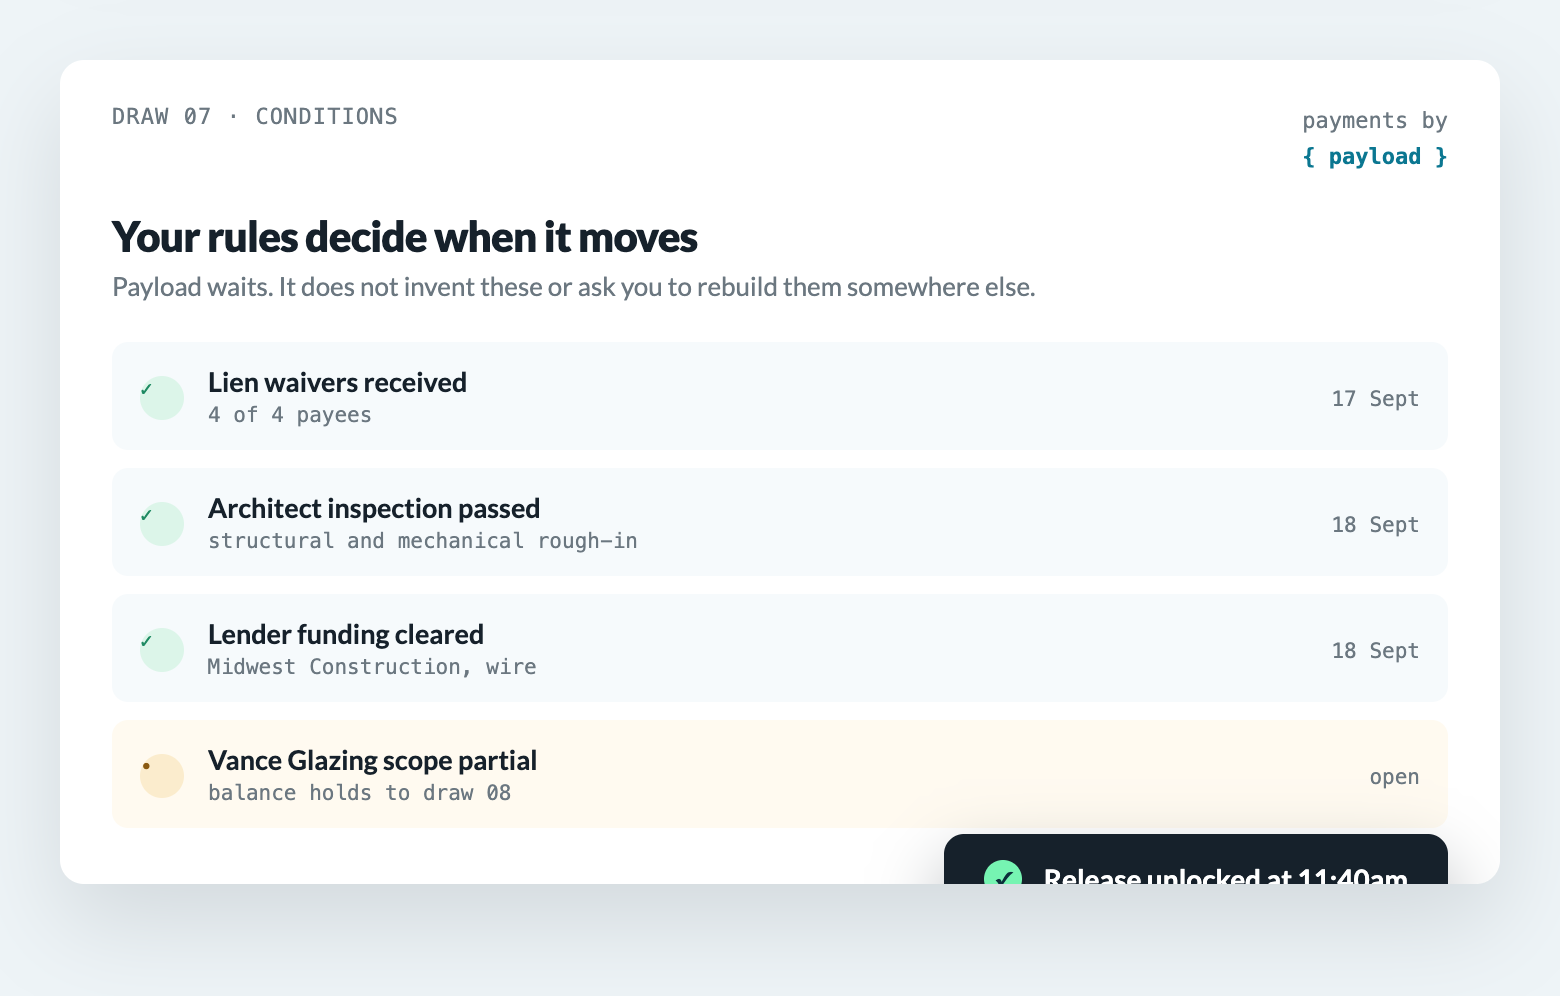
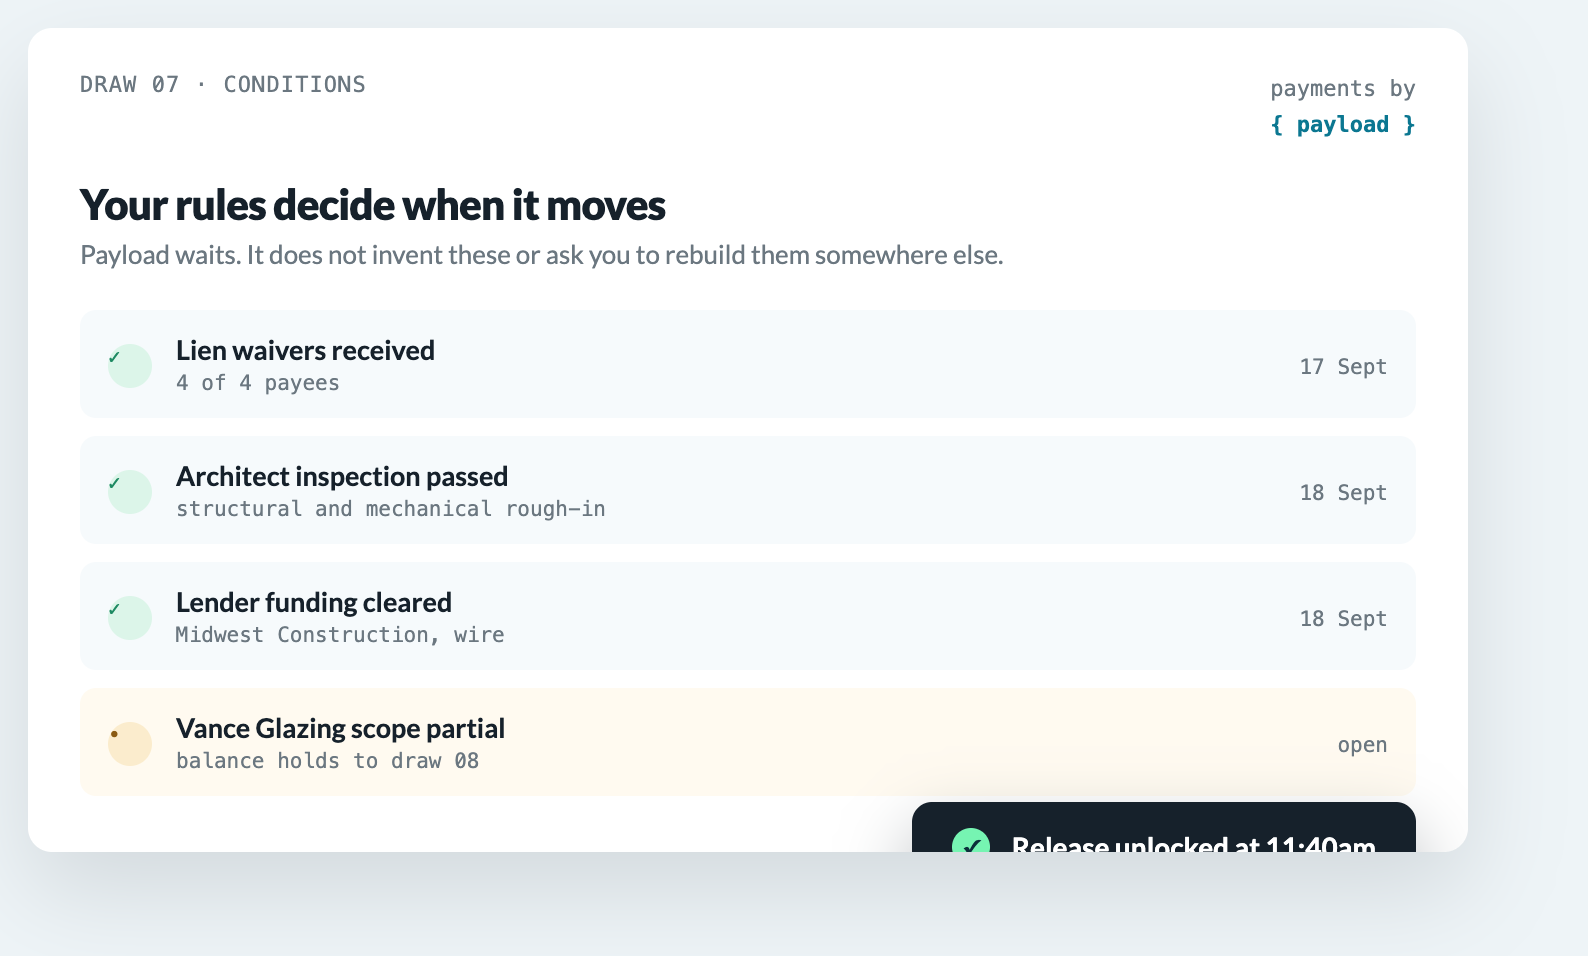
construction: dark/light rhythm, mint headline accents, floating callouts, restored use cases and compliance, fixed clipped mockups

Changed region(s): [[0.0, 0.091, 0.9538, 0.91], [0.0615, 0.0607, 0.2462, 0.1213]]

diff --git a/construction.html b/construction.html
@@ -51,10 +51,58 @@ figure{margin:0}
 .pill.solid:hover{filter:brightness(1.04)}
 .pill.lg{padding:14px 28px;font-size:var(--t-3);font-weight:900}
 
+
+/* ---- rhythm: Payload alternates dark and light nine times. All-white has no energy. ---- */
+.dark{background:#16212b;color:#fff}
+.dark h2,.dark h3{color:#fff}
+.dark .sub,.dark p{color:#b3c2cb}
+.dark .eyebrow{color:var(--mint)}
+.dark .arrows li{color:#c6d3da;border-color:rgba(255,255,255,.12)}
+.dark .arrows{border-top-color:rgba(255,255,255,.14)}
+.dark .arrows li::before{color:var(--mint)}
+.dark .shotwrap{background:#212c35}
+em{font-style:normal;color:var(--teal)}
+.dark em{color:var(--mint)}
+
+.crumb{border-bottom:1px solid var(--line);background:var(--tint)}
+.crumb .w{padding-block:11px;font-size:var(--t-2);color:var(--ink-3)}
+.crumb a{color:var(--teal);text-decoration:none}
+.crumb span{color:var(--ink-3);margin-inline:6px}
+
+/* six use cases, their hexagon grid rebuilt as cards */
+.uses{display:grid;grid-template-columns:repeat(3,1fr);gap:var(--s-5);margin-top:var(--s-7)}
+.u{border:1px solid var(--line);border-radius:14px;padding:var(--s-5);background:var(--paper)}
+.u .k{font:var(--t-1)/1 var(--mono);letter-spacing:.1em;text-transform:uppercase;
+  color:var(--teal);display:block;margin-bottom:var(--s-3)}
+.u h3{font-size:var(--t-4);font-weight:900;margin:0 0 var(--s-2);letter-spacing:-.015em;line-height:1.25}
+.u p{margin:0;font-size:var(--t-2);color:var(--ink-3);line-height:1.55}
+
+/* rails */
+.rails{display:flex;flex-wrap:wrap;gap:8px;margin:var(--s-6) 0 0;padding:0;list-style:none;justify-content:center}
+.rails li{font:var(--t-2) var(--mono);background:var(--paper);border:1px solid var(--line);
+  border-radius:100px;padding:7px 15px;color:var(--ink-2)}
+.dark .rails li{background:#23303a;border-color:#38474f;color:#cfdce3}
+
+/* full width product shot with floating callouts, their signature presentation */
+.showcase{position:relative;max-width:1000px;margin:var(--s-8) auto 0}
+.showcase .shotwrap{padding:var(--s-6)}
+.call{position:absolute;background:var(--paper);border-radius:12px;padding:14px 18px;
+  box-shadow:0 14px 36px rgba(22,33,43,.18);max-width:250px;z-index:2}
+.call b{display:block;font-size:var(--t-2);font-weight:900;color:var(--ink);line-height:1.3}
+.call span{display:block;font:var(--t-1) var(--mono);color:var(--teal);margin-top:4px}
+.c1{top:6%;left:-34px} .c2{top:38%;right:-34px} .c3{bottom:12%;left:-24px}
+@media (max-width:1180px){ .c1,.c2,.c3{position:static;max-width:none;box-shadow:none;
+  border:1px solid var(--line);margin-top:var(--s-3)} 
+  .showcase .calls{display:grid;grid-template-columns:repeat(3,1fr);gap:var(--s-3)} }
+@media (max-width:760px){ .showcase .calls{grid-template-columns:1fr} }
+
+/* give product shots real width. 0.23 scale was illegible. */
+@media (max-width:900px){ .row{grid-template-columns:1fr} }
+@media (max-width:900px){ .uses{grid-template-columns:1fr} }
 /* rhythm */
 section{padding-block:var(--s-9)}
-.center{text-align:center;max-width:22ch;margin:0 auto var(--s-7)}
-.center.wide{max-width:36ch}
+.center{text-align:center;max-width:620px;margin:0 auto var(--s-7)}
+.center.wide{max-width:780px}
 h1{font-size:clamp(38px,5.2vw,var(--t-8));font-weight:900;line-height:1.08;
   letter-spacing:-.035em;margin:0 0 var(--s-5)}
 h2{font-size:clamp(26px,3.4vw,var(--t-6));font-weight:900;line-height:1.18;
@@ -83,7 +131,7 @@ h2{font-size:clamp(26px,3.4vw,var(--t-6));font-weight:900;line-height:1.18;
 .arrows li::before{content:"\2192";position:absolute;left:0;top:var(--s-3);color:var(--teal);font-weight:700}
 
 /* stats */
-.stats{background:var(--tint-2)}
+.stats:not(.dark){background:var(--tint-2)}
 .stats .row3{display:grid;grid-template-columns:repeat(3,1fr);gap:var(--s-8);text-align:center;margin:0}
 .stats dt{font-size:clamp(34px,4.6vw,var(--t-8));font-weight:900;letter-spacing:-.04em;line-height:1}
 .stats dd{margin:var(--s-3) 0 0;font-size:var(--t-2);color:var(--ink-3);line-height:1.5}
@@ -142,6 +190,70 @@ footer a{font-size:var(--t-2);color:var(--teal);text-decoration:none;font-weight
   .cmp td.diy::before{content:"Build it: ";font-weight:700;color:var(--ink-3)}
   .cmp td.bank::before{content:"Bank portal: ";font-weight:700;color:var(--ink-3)}
 }
+
+/* product shots were rendering at 0.23 scale. give the image column real width. */
+.row{grid-template-columns:minmax(0,0.76fr) minmax(0,1.24fr);gap:var(--s-7)}
+.row .shotwrap{padding:var(--s-5) var(--s-5) 0}
+.row .shotwrap.pad{padding:var(--s-5)}
+@media (max-width:900px){.row{grid-template-columns:1fr}}
+
+.dark .u{background:#212c35;border-color:#34424b}
+.dark .u p{color:#b3c2cb}
+.dark .u .k{color:var(--mint)}
+.dark .row3 dt,.dark .row3 dd{color:#fff}
+.dark .row3 dd{color:#b3c2cb}
+.foot-note{max-width:62ch;margin:var(--s-6) auto 0;text-align:center;
+  font-size:var(--t-1);color:var(--ink-3);line-height:1.6}
+.dark .foot-note{color:#93a6b1}
+
+/* the toast sits at the card's bottom edge. zero bottom padding was clipping it. */
+.shotwrap{padding-bottom:var(--s-6)}
+.row .shotwrap,.row .shotwrap.pad{padding:var(--s-5)}
+.showcase .shotwrap{padding:var(--s-6)}
+/* c3 was sitting on top of a ledger row */
+/* callouts were landing on the mockup's own column headers.
+   widen only this section's container so they get real clearance. */
+.ledgersec .w{max-width:1320px}
+.showcase{max-width:880px}
+.call{max-width:236px;padding:13px 16px}
+.c1{top:14%;left:-196px}
+.c2{top:47%;right:-196px}
+.c3{bottom:10%;left:-176px}
+@media (max-width:1320px){
+  .ledgersec .w{max-width:1120px}
+  .call{position:static;max-width:none;box-shadow:none;border:1px solid #34424b;background:#212c35}
+  .call b{color:#fff} .showcase .calls{display:grid;grid-template-columns:repeat(3,1fr);gap:var(--s-3);margin-top:var(--s-5)}
+}
+@media (max-width:760px){.showcase .calls{grid-template-columns:1fr}}
+/* short text column next to a tall image should sit at the top, not float mid */
+.row{align-items:start}
+.row .txt{padding-top:var(--s-4)}
+
+/* Payload opens dark. A white hero reads lighter than the rest of the site. */
+.hero.dark{background:#16212b;padding-bottom:var(--s-9)}
+.hero.dark p.lead{color:#b3c2cb}
+.hero.dark .shotwrap{background:#212c35;box-shadow:0 30px 70px rgba(0,0,0,.38)}
+.nav{background:#16212b;border-bottom-color:#2a3a45}
+.nav .logo{color:#fff}
+.nav .pill{background:#23303a;border:1px solid #3a4a55;color:#cfdce3}
+.crumb{background:#16212b;border-bottom-color:#2a3a45}
+.crumb .w{color:#93a6b1}
+.crumb a{color:var(--mint)}
+/* the outline CTA needs to survive on navy */
+.hero.dark .pill.lg:not(.solid){background:transparent;border:1px solid #46565f;color:#dbe6ec}
+.nav .logo b{color:var(--mint)}
+.crumb span{color:#8598a3}
+
+/* Payload closes dark. A pale footer lets the page trail off. */
+footer{background:#16212b;border-top-color:#2a3a45}
+footer p{color:#93a6b1}
+footer a{color:var(--mint)}
+/* the phone was a small object inside a large empty frame */
+.phoneshot{max-width:520px;margin-inline:auto;padding:var(--s-4)}
+/* a short text column beside a tall phone left a hole underneath it */
+.row.tallimg{align-items:center}
+.row.tallimg .txt{padding-top:0}
+.phoneshot img{display:block;width:100%;height:auto}
 </style>
 </head>
 <body>
@@ -156,25 +268,36 @@ footer a{font-size:var(--t-2);color:var(--teal);text-decoration:none;font-weight
   <a class="pill" href="demo.html">Talk to an engineer</a>
 </div></div>
 
+<div class="crumb"><div class="w"><a href="index.html">Solutions</a><span>&raquo;</span>Construction</div></div>
+
 <main>
 
-<section class="hero"><div class="w">
+<section class="hero dark"><div class="w">
   <p class="eyebrow">For construction management platforms</p>
-  <h1>Your platform already runs the job.<br>The money should not leave to get paid.</h1>
+  <h1>Your platform already runs the job.<br><em>The money should not leave to get paid.</em></h1>
   <p class="lead">Draws, retainage, lien waivers and subcontractor payouts, settled inside the product that already holds the project. Your approval rules decide when it moves.</p>
   <div class="btns">
     <a class="pill solid lg" href="demo.html">Map your flows with an engineer</a>
     <a class="pill lg" href="revenue.html">See what it earns first</a>
   </div>
   <div class="shotwrap">
-    <figure class="shot"><img src="img/m-draw.png" alt="A draw release inside a construction platform: four subcontractor payees, retainage deducted, released in eleven seconds" width="1560" height="1160" loading="lazy"></figure>
+    <figure class="shot"><img src="img/m-draw.png" alt="A draw release inside a construction platform: four subcontractor payees, retainage deducted, released in eleven seconds" width="1588" height="1120" loading="lazy"></figure>
   </div>
 </div></section>
 
 <section><div class="w">
   <div class="center wide">
-    <h2>Everything the payment needs, your platform already knows</h2>
-    <p class="sub">And it currently sends all of it somewhere that knows none of it.</p>
+    <h2>Everything the payment needs, <em>your platform already knows</em></h2>
+    <p class="sub">And it currently sends all of it somewhere that knows none&nbsp;of&nbsp;it.</p>
+  </div>
+
+  <div class="uses">
+    <div class="u"><span class="k">inbound</span><h3>Progress payments and draws</h3><p>Requested against the line items your platform already tracks, with the job attached.</p></div>
+    <div class="u"><span class="k">inbound</span><h3>Owner and lender funding</h3><p>Released on inspection or milestone, by wire, RTP or ACH depending on who is sending it.</p></div>
+    <div class="u"><span class="k">outbound</span><h3>Subcontractor payouts</h3><p>Same day where it matters, conditional on the lien waiver being on file.</p></div>
+    <div class="u"><span class="k">outbound</span><h3>Supplier and vendor payments</h3><p>Any person or business, against the PO and the delivery your product already recorded.</p></div>
+    <div class="u"><span class="k">held</span><h3>Retainage</h3><p>Withheld on a schedule, released on conditions, in the same ledger as everything else.</p></div>
+    <div class="u"><span class="k">both</span><h3>Change orders</h3><p>A different amount against the same contract. Changing what is owed should not change how it moves.</p></div>
   </div>
 
   <div class="row">
@@ -188,24 +311,32 @@ footer a{font-size:var(--t-2);color:var(--teal);text-decoration:none;font-weight
         <li>A partial scope holds its balance to the next draw without holding the rest</li>
       </ul>
     </div>
-    <figure class="shotwrap pad"><img src="img/m-conditions.png" alt="A conditions panel showing lien waivers, inspection and lender funding cleared, with one partial scope held back" width="1560" height="996" loading="lazy"></figure>
+    <figure class="shotwrap pad"><img src="img/m-conditions.png" alt="A conditions panel showing lien waivers, inspection and lender funding cleared, with one partial scope held back" width="1588" height="956" loading="lazy"></figure>
   </div>
 
-  <div class="row flip">
-    <div class="txt">
-      <h3>Reconciliation stops being a monthly event</h3>
-      <p>Every movement carries the project, the job and the invoice it belongs to, because the system that recorded the work is the one that moved the money.</p>
-      <ul class="arrows">
-        <li>Draws matched to their schedule of values lines</li>
-        <li>Lender funding matched to the request that triggered it</li>
-        <li>Change orders applied against the same contract</li>
-        <li>Exceptions are what happens when the match is made afterwards</li>
-      </ul>
+</div></section>
+
+<section class="dark ledgersec"><div class="w">
+  <div class="center wide">
+    <span class="eyebrow">one ledger</span>
+    <h2>Every dollar on the job, <em>in one place</em></h2>
+    <p class="sub">Draws in, retainage held, payouts out, fees attributed. Not three exports reconciled at month end.</p>
+  </div>
+  <div class="showcase">
+    <figure class="shotwrap"><img src="img/m-ledger.png" alt="A job ledger showing draws received, retainage held, subcontractor payouts and fees, reconciled to a single job" width="1588" height="1100" loading="lazy"></figure>
+    <div class="calls">
+      <div class="call c1"><b>Every movement carries the job</b><span>job_id on the transaction</span></div>
+      <div class="call c2"><b>Retainage is a balance, not a spreadsheet</b><span>held / released</span></div>
+      <div class="call c3"><b>Fees attributed at the line</b><span>who paid what</span></div>
     </div>
-    <figure class="shotwrap pad"><img src="img/m-ledger.png" alt="A project ledger with funded to date, retainage held and zero exceptions, every movement matched" width="1560" height="1140" loading="lazy"></figure>
   </div>
+  <ul class="rails">
+    <li>ACH</li><li>RTP</li><li>Wire</li><li>Card</li><li>Check</li><li>Virtual card</li>
+  </ul>
+</div></section>
 
-  <div class="row">
+<section><div class="w">
+  <div class="row tallimg">
     <div class="txt">
       <h3>Subcontractors hear it from you</h3>
       <p>Not from a bank they have never dealt with. The platform running their project is the one that tells them the money arrived.</p>
@@ -216,11 +347,11 @@ footer a{font-size:var(--t-2);color:var(--teal);text-decoration:none;font-weight
         <li>Adding a rail later is a setting, not a project</li>
       </ul>
     </div>
-    <figure class="shotwrap pad" style="max-width:420px;margin-inline:auto"><img src="img/m-paid.png" alt="A phone showing a subcontractor notified of a $73,800 payout that arrived in eleven seconds" width="760" height="1240" loading="lazy"></figure>
+    <figure class="shotwrap pad phoneshot"><img src="img/m-paid.png" alt="A phone showing a subcontractor notified of a $73,800 payout that arrived in eleven seconds" width="760" height="1240" loading="lazy"></figure>
   </div>
 </div></section>
 
-<section class="stats"><div class="w">
+<section class="stats dark"><div class="w">
   <div class="center wide"><h2>What Payload runs on today</h2></div>
   <dl class="row3">
     <div><dt>$500M</dt><dd>Moved every month, trending toward $6B a year</dd></div>
@@ -235,7 +366,7 @@ footer a{font-size:var(--t-2);color:var(--teal);text-decoration:none;font-weight
 
 <section><div class="w">
   <div class="center wide">
-    <h2>Three ways to solve this</h2>
+    <h2><em>Three ways</em> to solve this</h2>
     <p class="sub">Only one of them is a decision you make once.</p>
   </div>
   <table class="cmp">
@@ -268,7 +399,7 @@ footer a{font-size:var(--t-2);color:var(--teal);text-decoration:none;font-weight
 
 <section style="background:var(--tint);"><div class="w">
   <div class="center wide">
-    <h2>Questions a platform team asks first</h2>
+    <h2>Questions a platform team <em>asks first</em></h2>
   </div>
   <div class="faq">
     <details open><summary>Who holds the funds?</summary>
@@ -282,6 +413,20 @@ footer a{font-size:var(--t-2);color:var(--teal);text-decoration:none;font-weight
     <details><summary>Can we set our own pricing?</summary>
       <p>Flat, percentage, tiered or hybrid, per method or per account. Absorb the fee, pass it to the payer, or split it. On a construction platform the answer is usually different for a card draw than for an ACH payout, and it can be.</p></details>
   </div>
+</div></section>
+
+<section class="dark"><div class="w">
+  <div class="center wide">
+    <span class="eyebrow">what you inherit</span>
+    <h2>The part you would otherwise <em>build and then maintain</em></h2>
+    <p class="sub">Money transmission is not a feature you ship once. It is a compliance surface you own forever.</p>
+  </div>
+  <div class="uses">
+    <div class="u"><span class="k">licensing</span><h3>Money transmission</h3><p>Payload is the licensed party. Your platform moves money without becoming a transmitter.</p></div>
+    <div class="u"><span class="k">onboarding</span><h3>KYC and KYB</h3><p>Subcontractors and suppliers are verified through the flow, not through a separate portal you support.</p></div>
+    <div class="u"><span class="k">certifications</span><h3>PCI DSS Level 1, SOC 2 Type 2</h3><p>Both published by Payload. Your auditors ask for the attestation, not for your controls.</p></div>
+  </div>
+  <p class="foot-note">Certifications as published by Payload. Confirm current scope with their team before relying on it.</p>
 </div></section>
 
 <section class="end"><div class="w">
